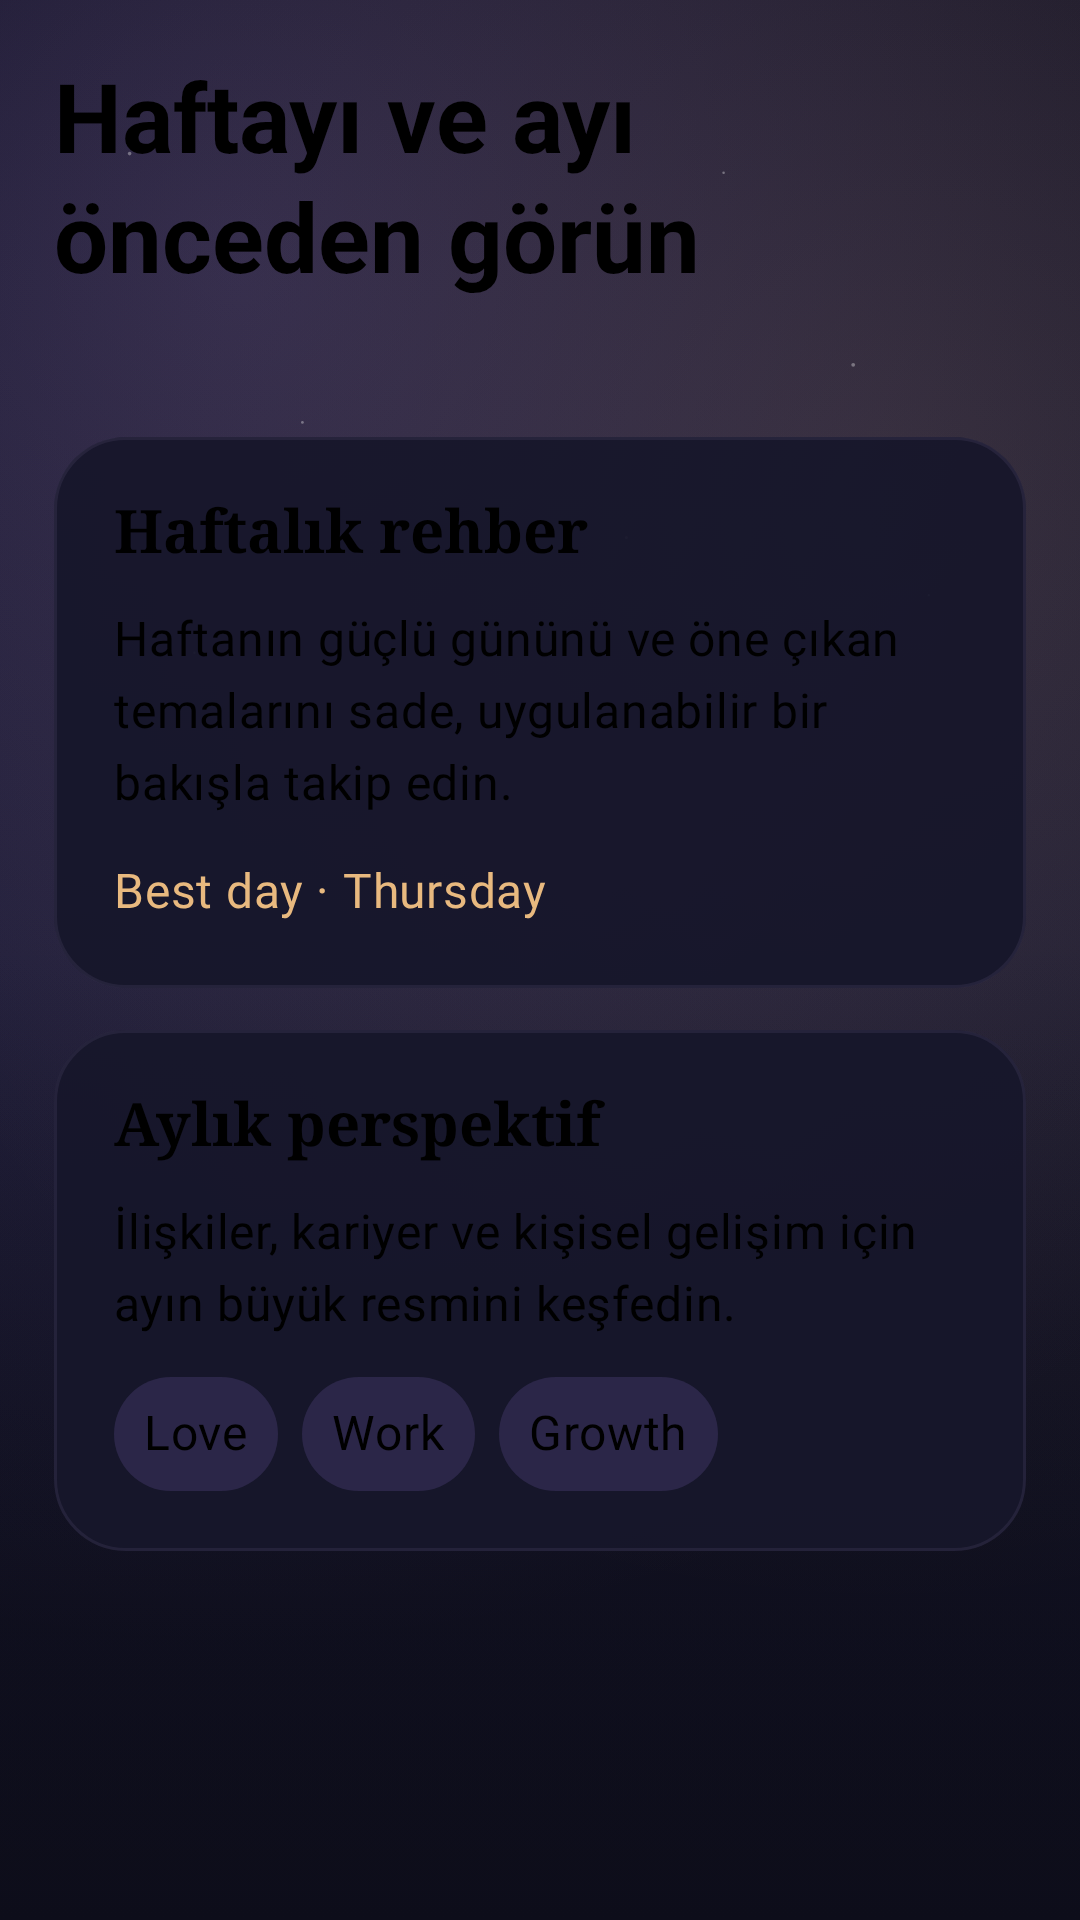
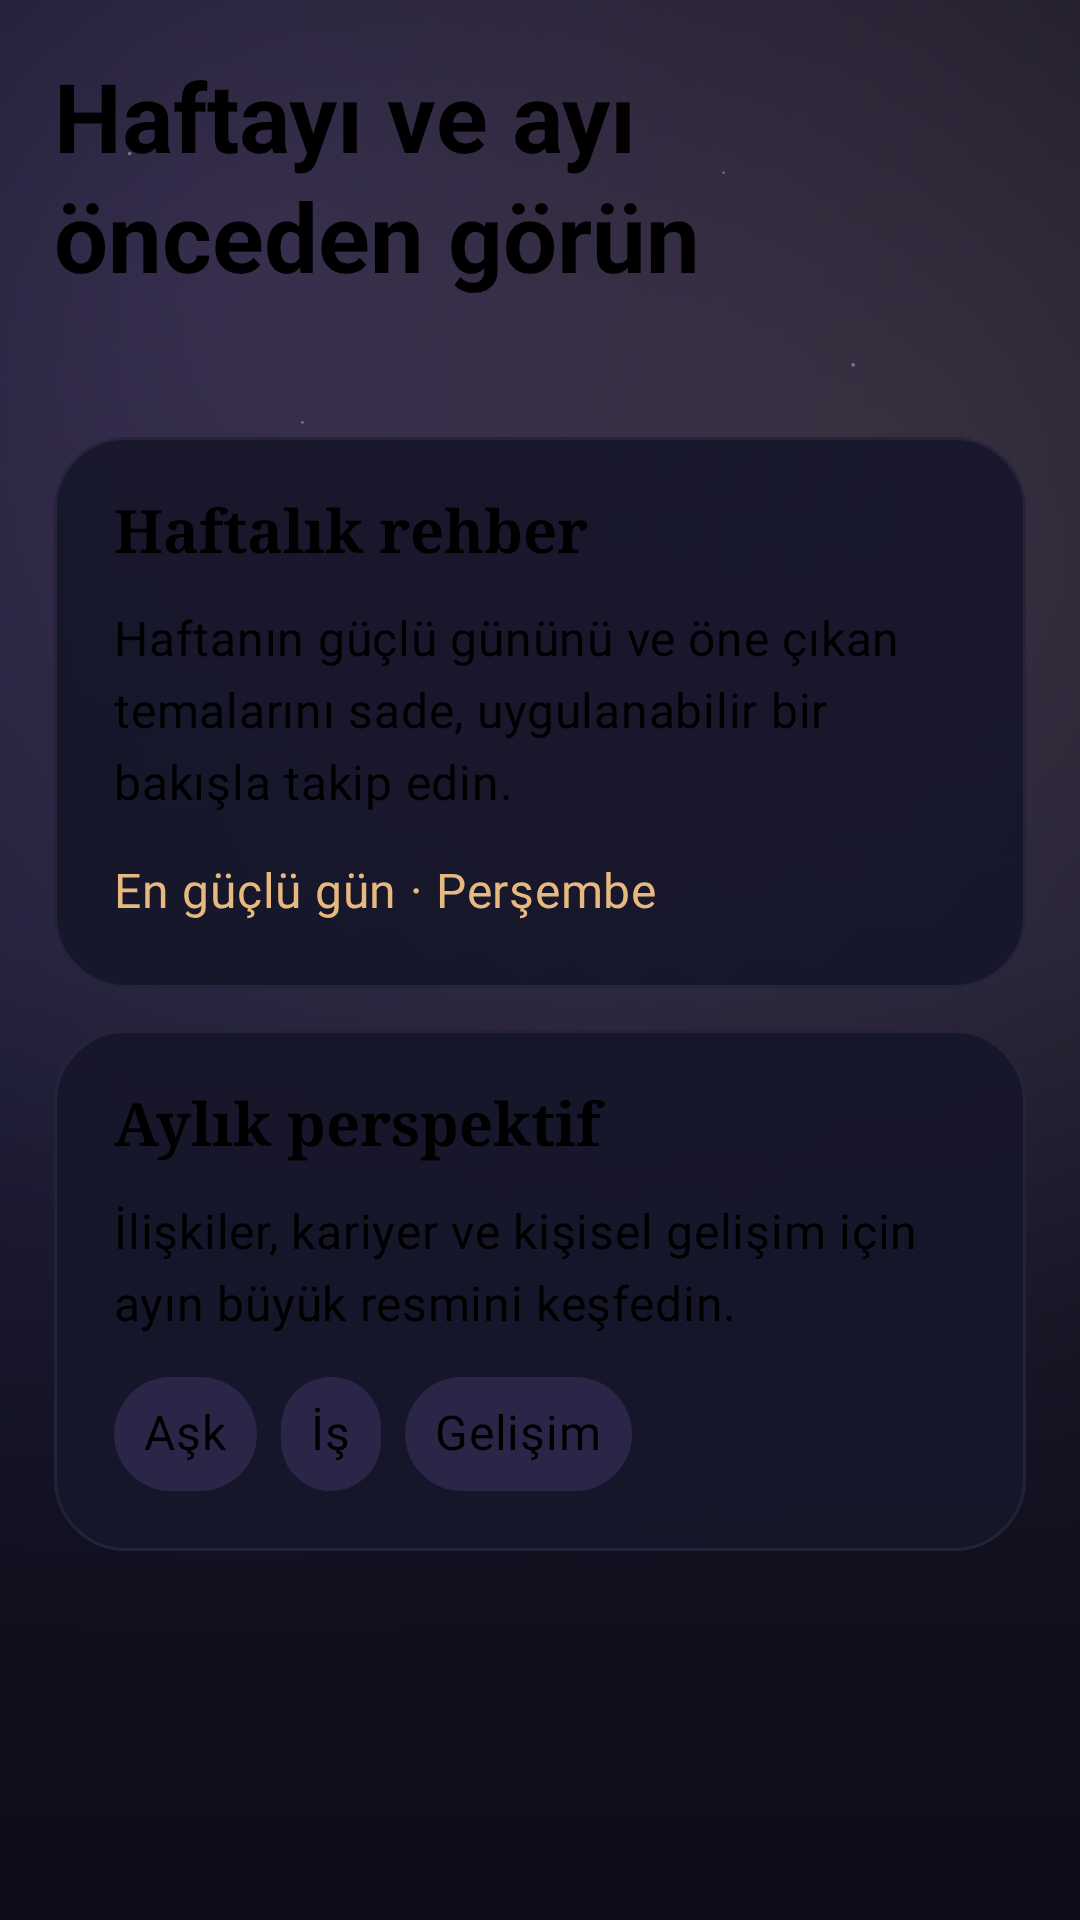
fix(play): fully localize Turkish store screenshots

Changed region(s): [[0.1222, 0.7188, 0.6722, 0.7812], [0.3056, 0.4375, 0.6111, 0.5], [0.1222, 0.4375, 0.275, 0.5]]

diff --git a/Astroloji/app/src/screenshotTest/kotlin/com/parsfilo/astrology/store/StoreScreenshotFixtures.kt b/Astroloji/app/src/screenshotTest/kotlin/com/parsfilo/astrology/store/StoreScreenshotFixtures.kt
@@ -10,88 +10,143 @@ internal enum class StoreLocale {
 }
 
 internal data class StoreLocalizedCopy(
+    val signName: String,
+    val todayLabel: String,
     val dailyHeadline: String,
     val dailyBody: String,
+    val dailyCardTitle: String,
+    val energyLabel: String,
+    val loveLabel: String,
+    val workLabel: String,
+    val dailyAdvice: String,
     val guidanceHeadline: String,
     val weeklyTitle: String,
     val weeklyBody: String,
+    val bestDayLabel: String,
     val monthlyTitle: String,
     val monthlyBody: String,
+    val monthlyThemeLabels: List<String>,
     val compatibilityHeadline: String,
     val compatibilityBody: String,
+    val compatibilityPairLabel: String,
+    val friendshipLabel: String,
     val personalityHeadline: String,
     val personalityBody: String,
+    val elementPlanetLabel: String,
     val strengthsTitle: String,
     val strengths: List<String>,
+    val deeperInsightTitle: String,
+    val deeperInsightBody: String,
     val toolsHeadline: String,
     val toolsBody: String,
     val widgetLabel: String,
     val notificationLabel: String,
     val shareLabel: String,
+    val todayScoreLabel: String,
     val premiumHeadline: String,
     val premiumBody: String,
+    val monthlyPlanTitle: String,
+    val weeklyPlanTitle: String,
 )
 
 internal val englishStoreCopy =
     StoreLocalizedCopy(
+        signName = "Aries",
+        todayLabel = "Today",
         dailyHeadline = "Your daily horoscope, at a glance",
         dailyBody = "Start the day with a personalized energy overview and clear guidance for love, work, money, and wellbeing.",
+        dailyCardTitle = "A confident start",
+        energyLabel = "Energy",
+        loveLabel = "Love",
+        workLabel = "Work",
+        dailyAdvice = "Take one clear step toward the conversation or project that matters most today.",
         guidanceHeadline = "See the week and month ahead",
         weeklyTitle = "Weekly guidance",
         weeklyBody = "Focus your attention with a practical overview of the week, its strongest day, and key themes.",
+        bestDayLabel = "Best day · Thursday",
         monthlyTitle = "Monthly perspective",
         monthlyBody = "Explore the bigger picture with monthly themes for relationships, career, and personal growth.",
+        monthlyThemeLabels = listOf("Love", "Work", "Growth"),
         compatibilityHeadline = "Understand zodiac compatibility",
         compatibilityBody = "Compare love, friendship, and work dynamics with clear scores and balanced insights.",
+        compatibilityPairLabel = "Aries + Leo",
+        friendshipLabel = "Friendship",
         personalityHeadline = "Discover your zodiac personality",
         personalityBody = "Explore strengths, ideal connections, and deeper sign-based insights in a polished profile.",
+        elementPlanetLabel = "Fire · Mars",
         strengthsTitle = "Aries strengths",
         strengths = listOf("Courageous", "Energetic", "Direct"),
+        deeperInsightTitle = "Deeper insight",
+        deeperInsightBody = "Channel your momentum into one meaningful direction and make space for collaboration.",
         toolsHeadline = "Keep astrology in your routine",
         toolsBody = "Use widgets, notifications, and shareable cards to stay connected without opening the app every time.",
         widgetLabel = "Home screen widget",
         notificationLabel = "Personalized reminders",
         shareLabel = "Shareable daily cards",
+        todayScoreLabel = "Today · 88%",
         premiumHeadline = "Choose the plan that fits your rhythm",
         premiumBody = "Monthly is recommended for ongoing use. Weekly stays available for shorter access.",
+        monthlyPlanTitle = "Monthly",
+        weeklyPlanTitle = "Weekly",
     )
 
 internal val turkishStoreCopy =
     StoreLocalizedCopy(
+        signName = "Koç",
+        todayLabel = "Bugün",
         dailyHeadline = "Günlük burç yorumunuz tek bakışta",
         dailyBody = "Güne; aşk, iş, para ve iyi oluş başlıklarında kişiselleştirilmiş enerji görünümüyle başlayın.",
+        dailyCardTitle = "Güçlü bir başlangıç",
+        energyLabel = "Enerji",
+        loveLabel = "Aşk",
+        workLabel = "İş",
+        dailyAdvice = "Bugün en önemli konuşma veya projeniz için net bir adım atın.",
         guidanceHeadline = "Haftayı ve ayı önceden görün",
         weeklyTitle = "Haftalık rehber",
         weeklyBody = "Haftanın güçlü gününü ve öne çıkan temalarını sade, uygulanabilir bir bakışla takip edin.",
+        bestDayLabel = "En güçlü gün · Perşembe",
         monthlyTitle = "Aylık perspektif",
         monthlyBody = "İlişkiler, kariyer ve kişisel gelişim için ayın büyük resmini keşfedin.",
+        monthlyThemeLabels = listOf("Aşk", "İş", "Gelişim"),
         compatibilityHeadline = "Burç uyumunu daha iyi anlayın",
         compatibilityBody = "Aşk, arkadaşlık ve iş dinamiklerini dengeli yorumlar ve net puanlarla karşılaştırın.",
+        compatibilityPairLabel = "Koç + Aslan",
+        friendshipLabel = "Arkadaşlık",
         personalityHeadline = "Burç kişiliğinizi keşfedin",
         personalityBody = "Güçlü yönlerinizi, ideal bağları ve daha derin burç içgörülerini modern bir profilde görün.",
+        elementPlanetLabel = "Ateş · Mars",
         strengthsTitle = "Koç burcunun güçlü yönleri",
         strengths = listOf("Cesur", "Enerjik", "Doğrudan"),
+        deeperInsightTitle = "Daha derin içgörü",
+        deeperInsightBody = "Hızınızı anlamlı bir yöne taşıyın ve iş birliğine alan açın.",
         toolsHeadline = "Astrolojiyi günlük rutininizde tutun",
         toolsBody = "Widget, bildirim ve paylaşılabilir kartlarla uygulamayı her seferinde açmadan bağlantıda kalın.",
         widgetLabel = "Ana ekran widget'ı",
         notificationLabel = "Kişiselleştirilmiş hatırlatmalar",
         shareLabel = "Paylaşılabilir günlük kartlar",
+        todayScoreLabel = "Bugün · 88%",
         premiumHeadline = "Ritminize uygun planı seçin",
         premiumBody = "Düzenli kullanım için aylık plan önerilir. Daha kısa erişim için haftalık plan da sunulur.",
+        monthlyPlanTitle = "Aylık",
+        weeklyPlanTitle = "Haftalık",
     )
 
 internal fun storePremiumPlans(locale: StoreLocale): List<PremiumPlanUi> {
-    val monthlyPrice = if (locale == StoreLocale.TURKISH) "₺394,99" else "\$6.99"
-    val weeklyPrice = if (locale == StoreLocale.TURKISH) "₺129,99" else "\$2.29"
+    val isTurkish = locale == StoreLocale.TURKISH
+    val copy = if (isTurkish) turkishStoreCopy else englishStoreCopy
+    val monthlyPrice = if (isTurkish) "₺394,99" else "\$6.99"
+    val weeklyPrice = if (isTurkish) "₺129,99" else "\$2.29"
+    val monthlyPriceMicros = if (isTurkish) 394_990_000L else 6_990_000L
+    val weeklyPriceMicros = if (isTurkish) 129_990_000L else 2_290_000L
     return listOf(
         PremiumPlanUi(
             planId = "premium_monthly:monthly:default",
             productId = "premium_monthly",
             basePlanId = "monthly",
             offerToken = "monthly-offer",
-            title = "Monthly",
+            title = copy.monthlyPlanTitle,
             price = monthlyPrice,
-            priceAmountMicros = 394_990_000,
+            priceAmountMicros = monthlyPriceMicros,
             billingPeriod = "P1M",
             displayPriority = 0,
         ),
@@ -100,9 +155,9 @@ internal fun storePremiumPlans(locale: StoreLocale): List<PremiumPlanUi> {
             productId = "premium_weekly",
             basePlanId = "weekly",
             offerToken = "weekly-offer",
-            title = "Weekly",
+            title = copy.weeklyPlanTitle,
             price = weeklyPrice,
-            priceAmountMicros = 129_990_000,
+            priceAmountMicros = weeklyPriceMicros,
             billingPeriod = "P1W",
             displayPriority = 1,
         ),

diff --git a/Astroloji/app/src/screenshotTest/kotlin/com/parsfilo/astrology/store/StoreListingScreenshotTest.kt b/Astroloji/app/src/screenshotTest/kotlin/com/parsfilo/astrology/store/StoreListingScreenshotTest.kt
@@ -86,14 +86,14 @@ private fun InsightMeter(
 @Composable
 private fun StoreDailyScene(copy: StoreLocalizedCopy) {
     StoreSceneFrame(copy.dailyHeadline, copy.dailyBody) {
-        AstroSectionTitle(title = "Aries", eyebrow = "Today")
+        AstroSectionTitle(title = copy.signName, eyebrow = copy.todayLabel)
         AstrologyCard {
-            Text("A confident start", style = MaterialTheme.typography.headlineSmall, fontWeight = FontWeight.Bold)
-            InsightMeter("Energy", 0.88f)
-            InsightMeter("Love", 0.76f)
-            InsightMeter("Work", 0.82f)
+            Text(copy.dailyCardTitle, style = MaterialTheme.typography.headlineSmall, fontWeight = FontWeight.Bold)
+            InsightMeter(copy.energyLabel, 0.88f)
+            InsightMeter(copy.loveLabel, 0.76f)
+            InsightMeter(copy.workLabel, 0.82f)
             Text(
-                "Take one clear step toward the conversation or project that matters most today.",
+                copy.dailyAdvice,
                 style = MaterialTheme.typography.bodyLarge,
             )
         }
@@ -106,13 +106,13 @@ private fun StoreGuidanceScene(copy: StoreLocalizedCopy) {
         AstrologyCard {
             Text(copy.weeklyTitle, style = MaterialTheme.typography.titleLarge, fontWeight = FontWeight.Bold)
             Text(copy.weeklyBody)
-            Text("Best day · Thursday", color = MaterialTheme.colorScheme.secondary)
+            Text(copy.bestDayLabel, color = MaterialTheme.colorScheme.secondary)
         }
         AstrologyCard {
             Text(copy.monthlyTitle, style = MaterialTheme.typography.titleLarge, fontWeight = FontWeight.Bold)
             Text(copy.monthlyBody)
             Row(horizontalArrangement = Arrangement.spacedBy(8.dp)) {
-                listOf("Love", "Work", "Growth").forEach { label ->
+                copy.monthlyThemeLabels.forEach { label ->
                     Surface(
                         shape = RoundedCornerShape(999.dp),
                         color = MaterialTheme.colorScheme.primary.copy(alpha = 0.16f),
@@ -138,10 +138,10 @@ private fun StoreCompatibilityScene(copy: StoreLocalizedCopy) {
                 Text("86%", style = MaterialTheme.typography.displayLarge, color = MaterialTheme.colorScheme.secondary)
                 Text("♌", style = MaterialTheme.typography.displayLarge)
             }
-            Text("Aries + Leo", modifier = Modifier.fillMaxWidth(), textAlign = TextAlign.Center)
-            InsightMeter("Love", 0.91f)
-            InsightMeter("Friendship", 0.84f)
-            InsightMeter("Work", 0.79f)
+            Text(copy.compatibilityPairLabel, modifier = Modifier.fillMaxWidth(), textAlign = TextAlign.Center)
+            InsightMeter(copy.loveLabel, 0.91f)
+            InsightMeter(copy.friendshipLabel, 0.84f)
+            InsightMeter(copy.workLabel, 0.79f)
         }
     }
 }
@@ -149,14 +149,14 @@ private fun StoreCompatibilityScene(copy: StoreLocalizedCopy) {
 @Composable
 private fun StorePersonalityScene(copy: StoreLocalizedCopy) {
     StoreSceneFrame(copy.personalityHeadline, copy.personalityBody) {
-        AstroSectionTitle(title = "Aries", eyebrow = "Fire · Mars")
+        AstroSectionTitle(title = copy.signName, eyebrow = copy.elementPlanetLabel)
         AstrologyCard {
             Text(copy.strengthsTitle, style = MaterialTheme.typography.titleLarge, fontWeight = FontWeight.Bold)
             copy.strengths.forEach { strength -> Text("• $strength") }
         }
         AstrologyCard {
-            Text("Deeper insight", style = MaterialTheme.typography.titleLarge, fontWeight = FontWeight.Bold)
-            Text("Channel your momentum into one meaningful direction and make space for collaboration.")
+            Text(copy.deeperInsightTitle, style = MaterialTheme.typography.titleLarge, fontWeight = FontWeight.Bold)
+            Text(copy.deeperInsightBody)
         }
     }
 }
@@ -205,7 +205,7 @@ private fun StoreToolsScene(copy: StoreLocalizedCopy) {
                     ),
             contentAlignment = Alignment.Center,
         ) {
-            Text("♈  Today · 88%", style = MaterialTheme.typography.headlineMedium)
+            Text("♈  ${copy.todayScoreLabel}", style = MaterialTheme.typography.headlineMedium)
         }
     }
 }
